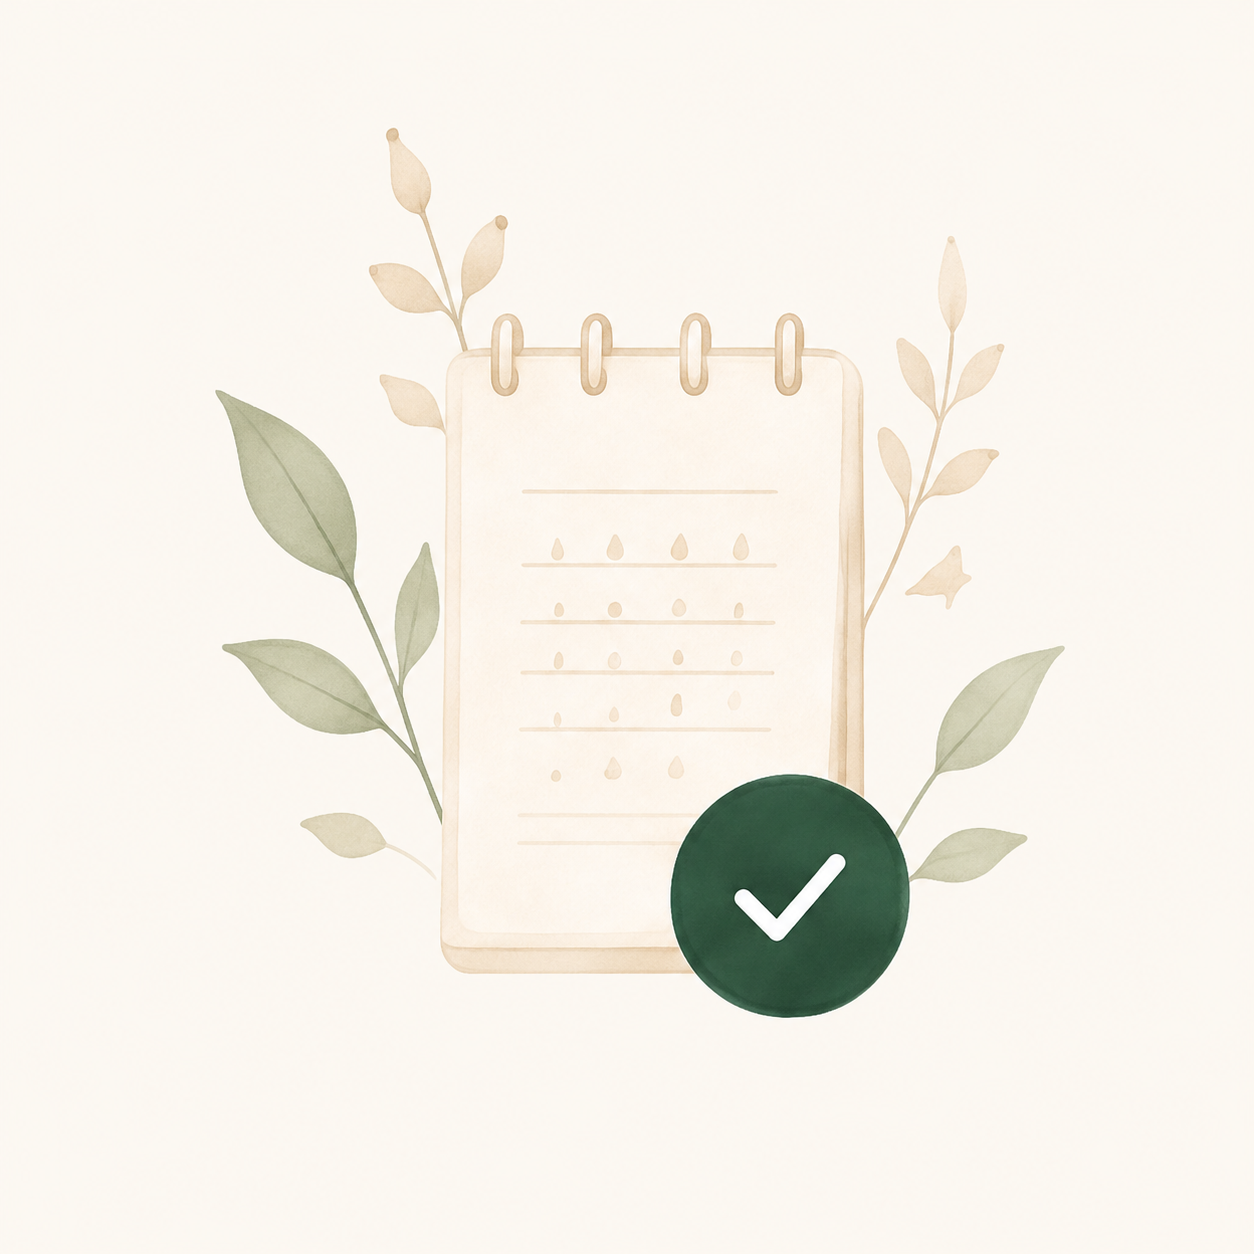
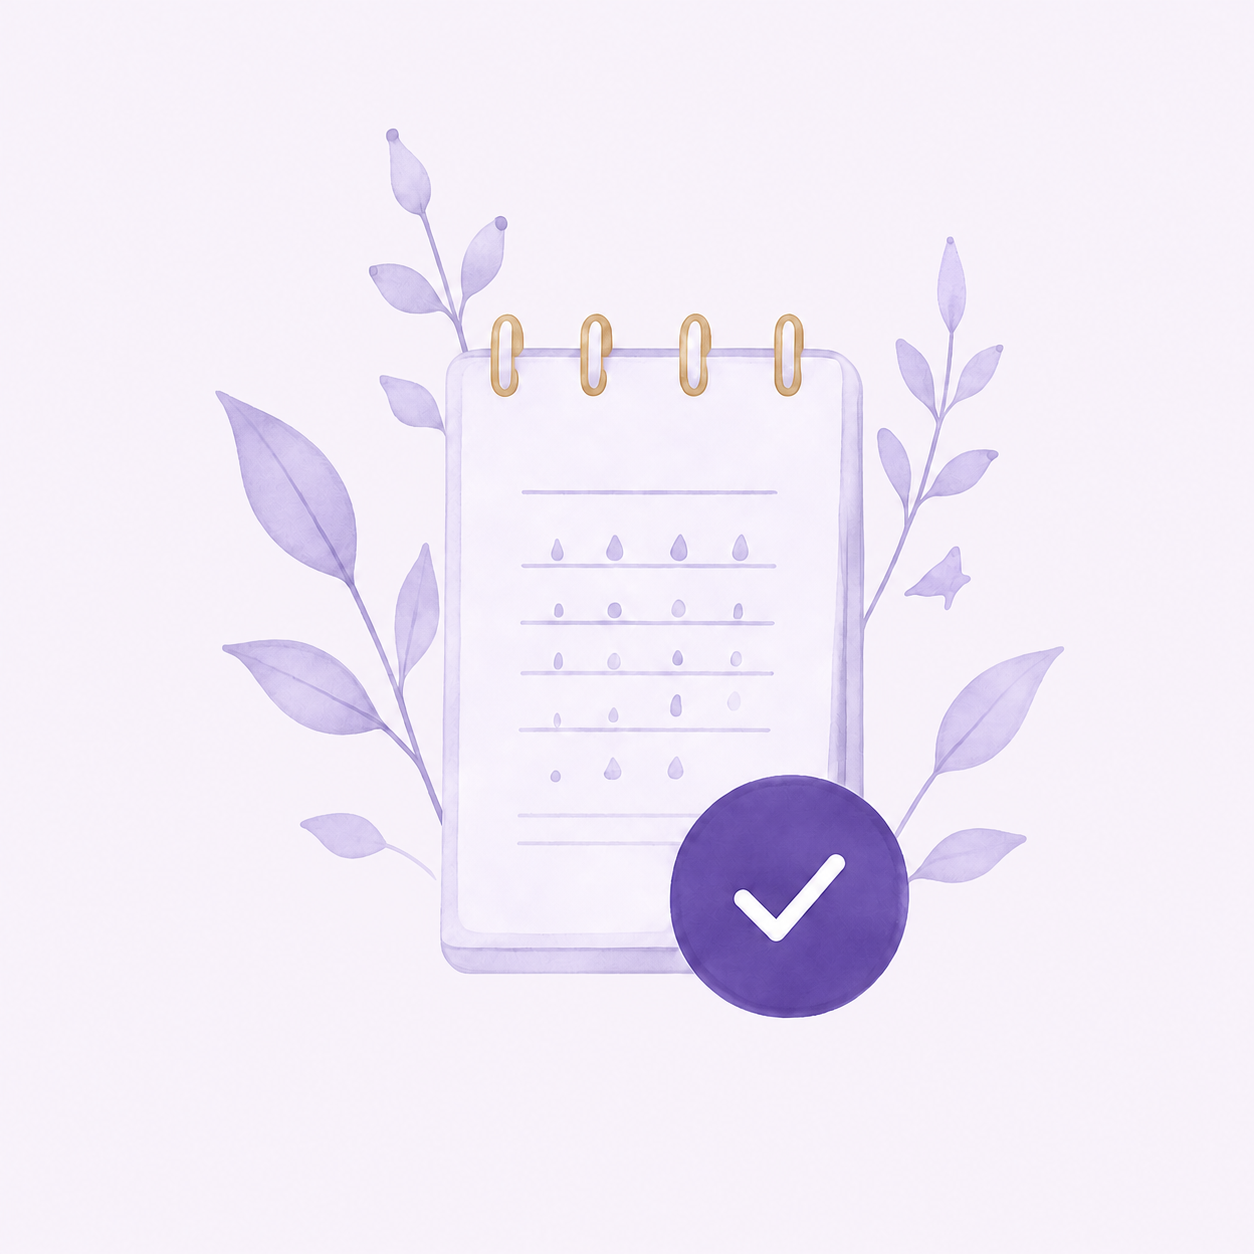
chore(assets): remove obsolete assets

diff --git a/src/screens/SecuritySetupScreen.tsx b/src/screens/SecuritySetupScreen.tsx
@@ -19,14 +19,14 @@ type Props = NativeStackScreenProps<RootStackParamList, 'SecuritySetup'>;
 type OptionProps = {icon: ImageSourcePropType; title: string; description: string; value: boolean; onValueChange: (value: boolean) => void};
 
 function SecurityOption({icon, title, description, value, onValueChange}: OptionProps) {
-  return <View style={styles.option}><View style={styles.iconBox}><Image accessibilityIgnoresInvertColors source={icon} style={styles.icon} /></View><View style={styles.optionCopy}><Text style={styles.optionTitle}>{title}</Text><Text style={styles.optionDescription}>{description}</Text></View><Switch ios_backgroundColor="#DED2C5" onValueChange={onValueChange} thumbColor="#FFFFFF" trackColor={{false: '#DED2C5', true: '#176548'}} value={value} /></View>;
+  return <View style={styles.option}><View style={styles.iconBox}><Image accessibilityIgnoresInvertColors source={icon} style={styles.icon} /></View><View style={styles.optionCopy}><Text style={styles.optionTitle}>{title}</Text><Text style={styles.optionDescription}>{description}</Text></View><Switch ios_backgroundColor="#D9CDEC" onValueChange={onValueChange} thumbColor="#FFFFFF" trackColor={{false: '#D9CDEC', true: '#6949BE'}} value={value} /></View>;
 }
 
 function SecuritySetupScreen({navigation}: Props): React.JSX.Element {
   const insets = useSafeAreaInsets();
   const [pin, setPin] = useState(false); const [biometric, setBiometric] = useState(false); const [notifications, setNotifications] = useState(false);
   return <ImageBackground source={BACKGROUND} resizeMode="cover" style={styles.page}><View style={styles.safeArea}><StatusBar translucent backgroundColor="transparent" barStyle="dark-content" /><ScrollView contentContainerStyle={[styles.content, {paddingTop: Math.max(insets.top, 20), paddingBottom: Math.max(insets.bottom, 16) + spacing.sm}]} showsVerticalScrollIndicator={false}>
-    <ImageBackground source={HEADER} resizeMode="cover" style={styles.header}><Pressable accessibilityLabel="Retour" hitSlop={12} onPress={navigation.goBack} style={styles.back}><MaterialDesignIcons color="#174F3D" name="arrow-left" size={29} /></Pressable></ImageBackground>
+    <ImageBackground source={HEADER} resizeMode="cover" style={styles.header}><Pressable accessibilityLabel="Retour" hitSlop={12} onPress={navigation.goBack} style={styles.back}><MaterialDesignIcons color="#6949BE" name="arrow-left" size={29} /></Pressable></ImageBackground>
     <View style={styles.heading}><Text style={styles.title}>Protège ton espace</Text><Text style={styles.subtitle}>{'Choisis ce que tu actives maintenant —\ntout est modifiable plus tard.'}</Text></View>
     <View style={styles.options}>
       <SecurityOption description={'Verrouiller l’application\nà l’ouverture'} icon={PIN} onValueChange={value => {setPin(value); setPinEnabled(value);}} title="Code PIN" value={pin} />
